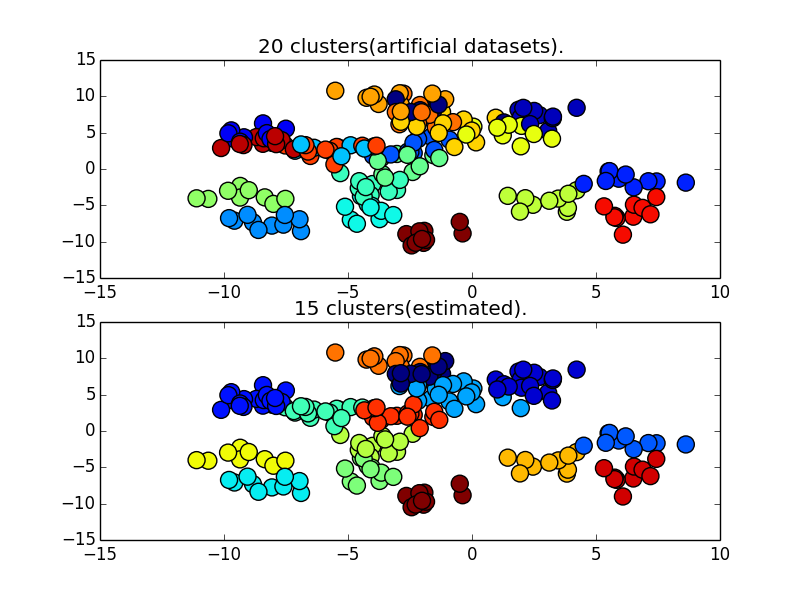
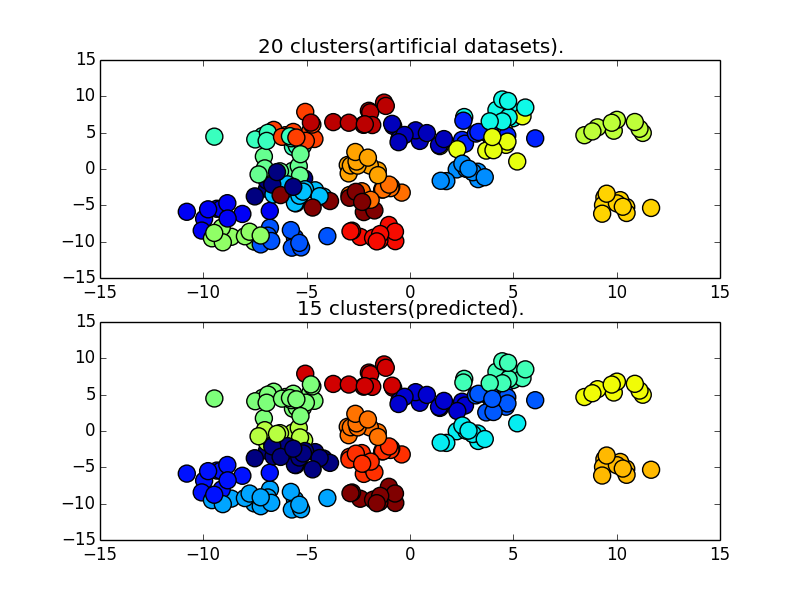
fix fig.

diff --git a/test.py b/test.py
@@ -68,7 +68,7 @@ def color_map(labels):
 if __name__ == "__main__":
 
     # Generate artificial datasets.
-    number_of_clusters = 5  # You can change this!!
+    number_of_clusters = 20  # You can change this!!
     data, labels_true = make_blobs(n_samples=number_of_clusters * 10,
                                 centers=number_of_clusters)
 
@@ -79,7 +79,7 @@ if __name__ == "__main__":
     labels_pred, k = main(affinity_matrix)
 
     print("%d clusters(artificial datasets)." % number_of_clusters)
-    print("%d clusters(estimated)." % k)
+    print("%d clusters(predicted)." % k)
 
     # Plot.
     from pylab import *
@@ -95,7 +95,7 @@ if __name__ == "__main__":
     scatter(data[:, 0], data[:, 1], s=150, c=t)
 
     subplot(212)
-    title("%d clusters(estimated)." % k)
+    title("%d clusters(predicted)." % k)
     scatter(data[:, 0], data[:, 1], s=150, c=p)
 
     show()

diff --git a/README.md b/README.md
@@ -29,7 +29,7 @@ test.py
         data, labels_true = make_blobs(n_samples=number_of_clusters * 10,
                                     centers=number_of_clusters)
 
-![Alt text](/fig/2.png "2 clusters")
-![Alt text](/fig/5.png "5 clusters")
-![Alt text](/fig/10.png "10 clusters")
-![Alt text](/fig/20.png "20 clusters")
+![Alt text](/fig/2.png)
+![Alt text](/fig/7.png)
+![Alt text](/fig/12.png)
+![Alt text](/fig/20.png)
